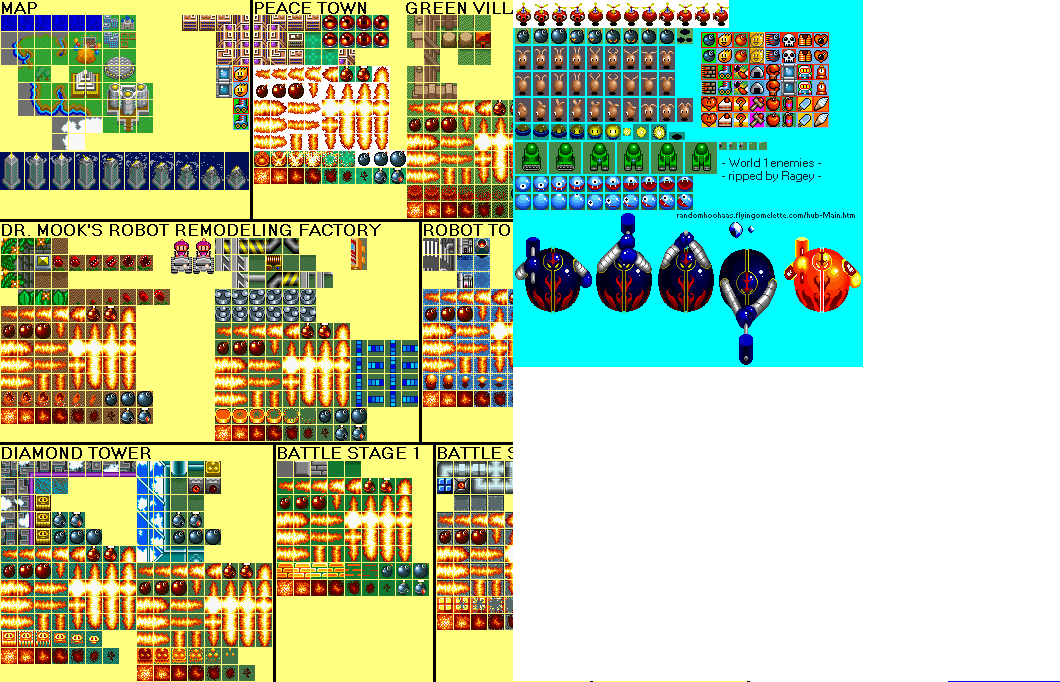
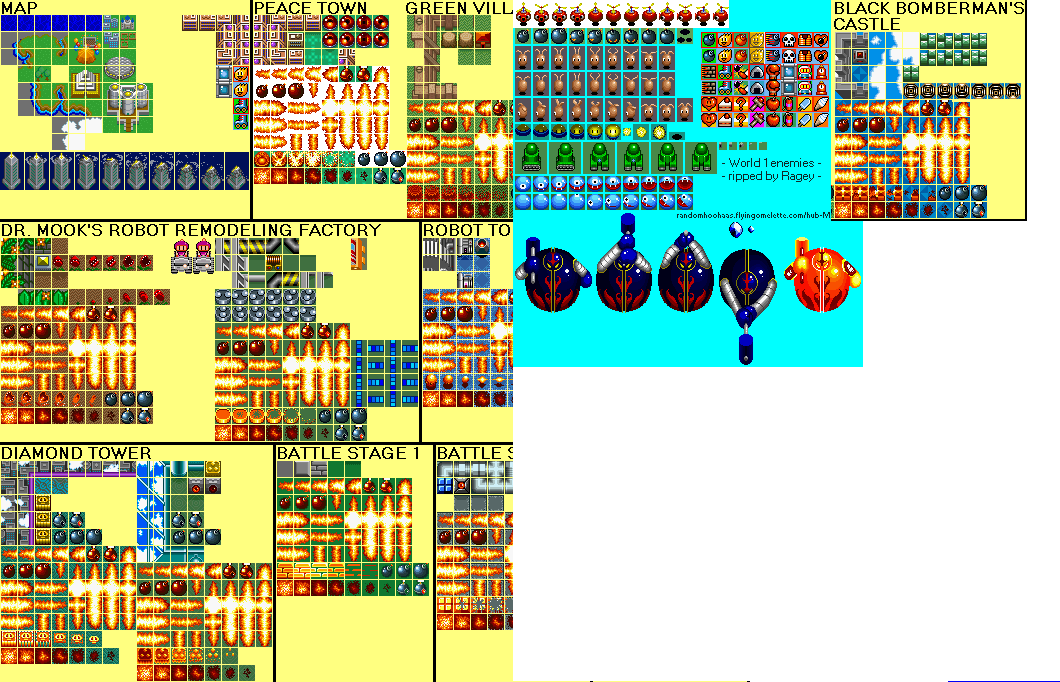
Starting with the BOSS

Changed region(s): [[0.7783, 0.0, 0.9962, 0.3387]]

diff --git a/ModuleTileMap.cpp b/ModuleTileMap.cpp
@@ -213,14 +213,6 @@ void ModuleTileMap::UpDownCollision(enemy* e, LookingUpDown& direction)
 
 
 
-
-void ModuleTileMap::enemyMovement()
-{
-
-}
-
-
-
 void ModuleTileMap::prepareTiles()
 {
 
@@ -382,9 +374,103 @@ void ModuleTileMap::prepareTiles()
 	tile27.w = 16;
 
 	tile28.x = 234;
-	tile22.y = 49;
+	tile28.y = 49;
 	tile28.h = 16;
 	tile28.w = 16;
+	//---------------------- BOOS
+	// --- 1
+	tile29.x = 835;
+	tile29.y = 32;
+	tile29.h = 16;
+	tile29.w = 16;
+
+	tile30.x = 835;
+	tile30.y = 49;
+	tile30.h = 16;
+	tile30.w = 16;
+
+	tile31.x = 835;
+	tile31.y = 66;
+	tile31.h = 16;
+	tile31.w = 16;
+
+	tile32.x = 835;
+	tile32.y = 83;
+	tile32.h = 16;
+	tile32.w = 16;
+	// --- 2
+	tile33.x = 852;
+	tile33.y = 32;
+	tile33.h = 16;
+	tile33.w = 16;
+
+	tile34.x = 852;
+	tile34.y = 49;
+	tile34.h = 16;
+	tile34.w = 16;
+
+	tile35.x = 852;
+	tile35.y = 66;
+	tile35.h = 16;
+	tile35.w = 16;
+
+	tile36.x = 852;
+	tile36.y = 83;
+	tile36.h = 16;
+	tile36.w = 16;
+	// --- 3
+	tile37.x = 869;
+	tile37.y = 32;
+	tile37.h = 16;
+	tile37.w = 16;
+
+	tile38.x = 869;
+	tile38.y = 49;
+	tile38.h = 16;
+	tile38.w = 16;
+
+	tile39.x = 869;
+	tile39.y = 66;
+	tile39.h = 16;
+	tile39.w = 16;
+
+	tile40.x = 869;
+	tile40.y = 83;
+	tile40.h = 16;
+	tile40.w = 16;
+	// --- 4
+	tile41.x = 886;
+	tile41.y = 32;
+	tile41.h = 16;
+	tile41.w = 16;
+
+	tile42.x = 886;
+	tile42.y = 49;
+	tile42.h = 16;
+	tile42.w = 16;
+
+	tile43.x = 886;
+	tile43.y = 66;
+	tile43.h = 16;
+	tile43.w = 16;
+
+	tile44.x = 886;
+	tile44.y = 83;
+	tile44.h = 16;
+	tile44.w = 16;
+	// --- 5
+	tile45.x = 903;
+	tile45.y = 32;
+	tile45.h = 16;
+	tile45.w = 16;
+
+	tile45.x = 903;
+	tile45.y = 49;
+	tile45.h = 16;
+	tile45.w = 16;
+
+	
+	//---------------------- BOSS
 
 	nonWalkableTiles.PushBack(0);
 	nonWalkableTiles.PushBack(1);
@@ -414,7 +500,14 @@ void ModuleTileMap::prepareTiles()
 	nonWalkableTiles.PushBack(25);
 	nonWalkableTiles.PushBack(26);
 	nonWalkableTiles.PushBack(27);
-	nonWalkableTiles.PushBack(28);
+
+	nonWalkableTiles.PushBack(29);
+	nonWalkableTiles.PushBack(30);
+	nonWalkableTiles.PushBack(31);
+	nonWalkableTiles.PushBack(32);
+	nonWalkableTiles.PushBack(33); 
+	nonWalkableTiles.PushBack(34);
+	nonWalkableTiles.PushBack(36);
 
 	srand(time(NULL));
 

diff --git a/ModuleTileMap.h b/ModuleTileMap.h
@@ -75,6 +75,30 @@ public:
 	SDL_Rect tile28;
 
 
+
+	SDL_Rect tile29;
+	SDL_Rect tile30;
+	SDL_Rect tile31;
+	SDL_Rect tile32;
+	// --- 2
+	SDL_Rect tile33;
+	SDL_Rect tile34;
+	SDL_Rect tile35;
+	SDL_Rect tile36;
+	// --- 3
+	SDL_Rect tile37;
+	SDL_Rect tile38;
+	SDL_Rect tile39;
+	SDL_Rect tile40;
+	// --- 4
+	SDL_Rect tile41;
+	SDL_Rect tile42;
+	SDL_Rect tile43;
+	SDL_Rect tile44;
+	// --- 5
+	SDL_Rect tile45;
+	SDL_Rect tile45;
+
 	SDL_Rect portal;
 	SDL_Rect rEnemy1;
 	SDL_Rect score;
